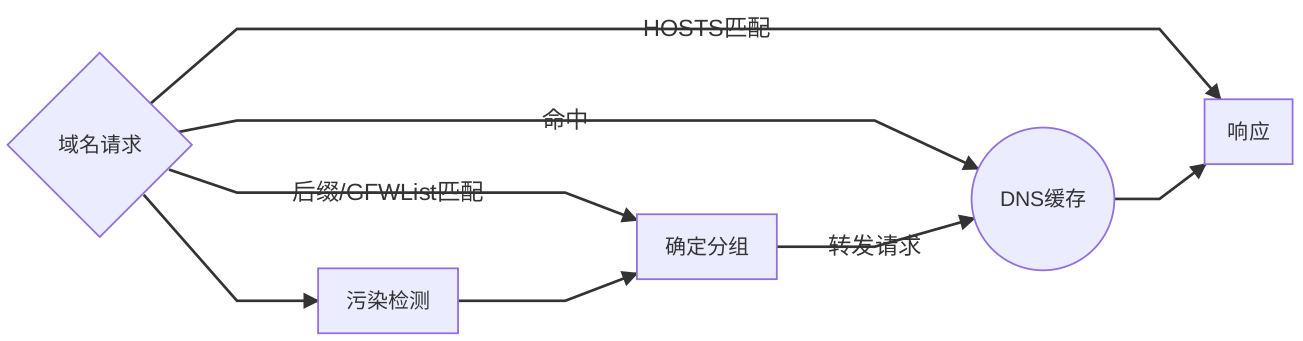
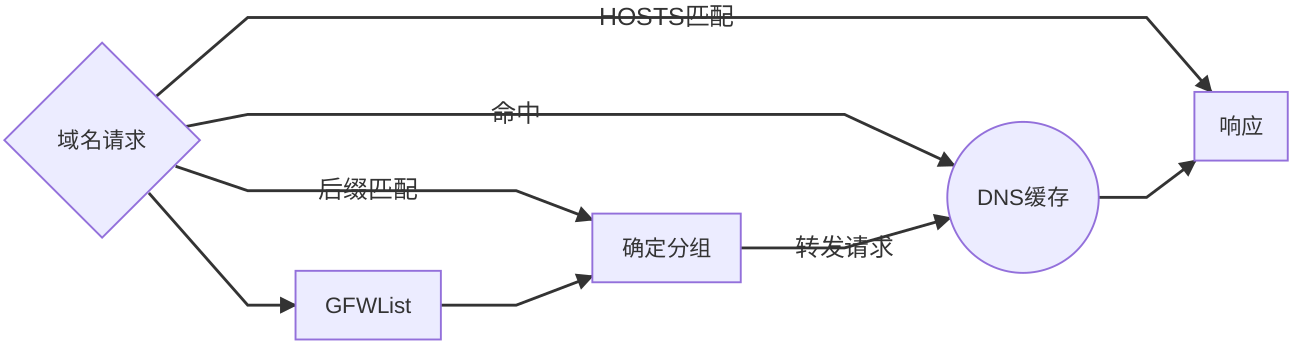
[doc]移除污染检测相关内容

diff --git a/README.md b/README.md
@@ -1,5 +1,5 @@
 # Telescope DNS
-* 支持按域名后缀匹配/GFWList匹配/半智能污染检测进行分组
+* 支持按域名后缀匹配/GFWList匹配测进行分组
 * 支持多hosts文件 + 手动指定hosts
 * DNS查询支持socks5代理
 * DNS记录缓存
